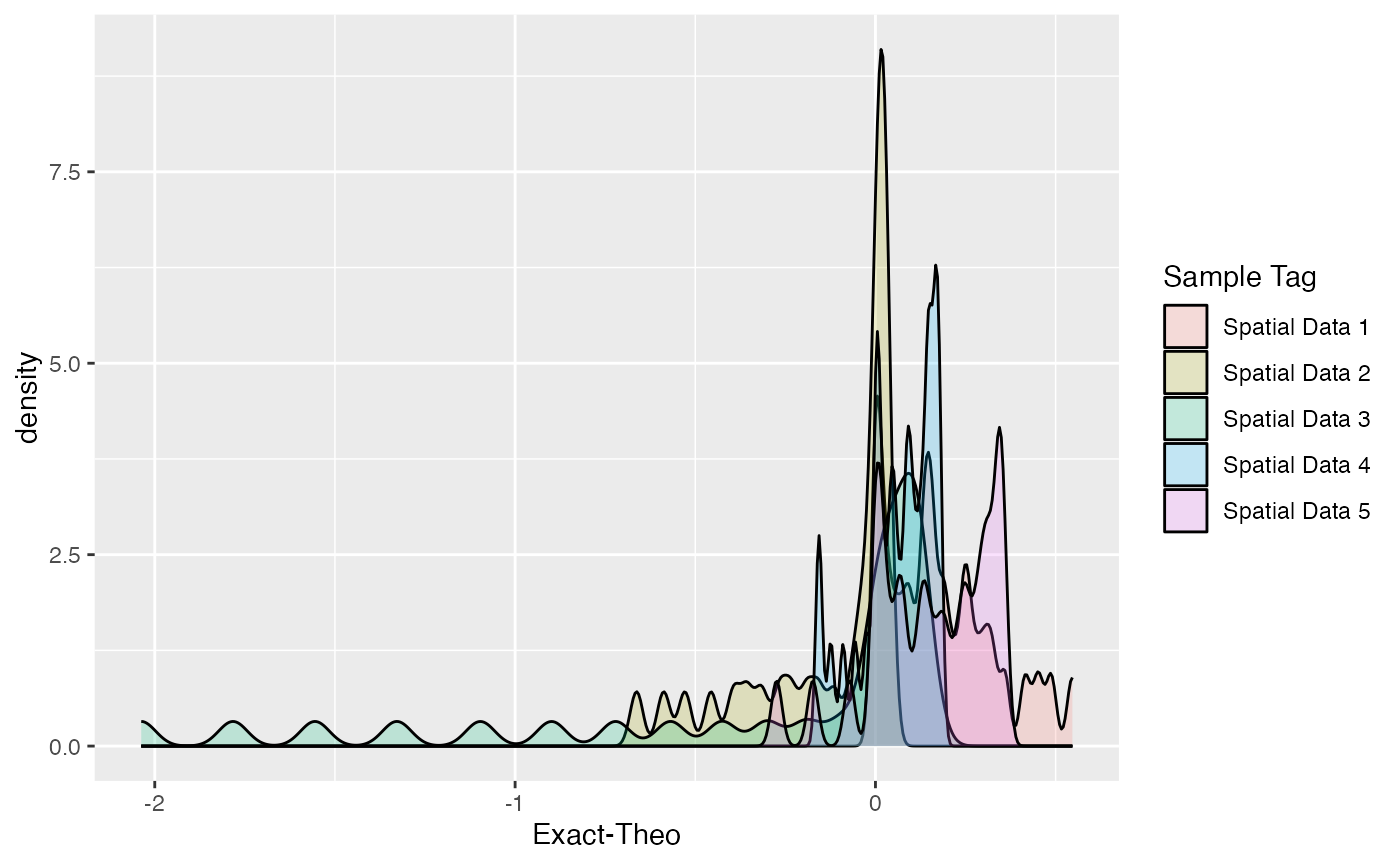
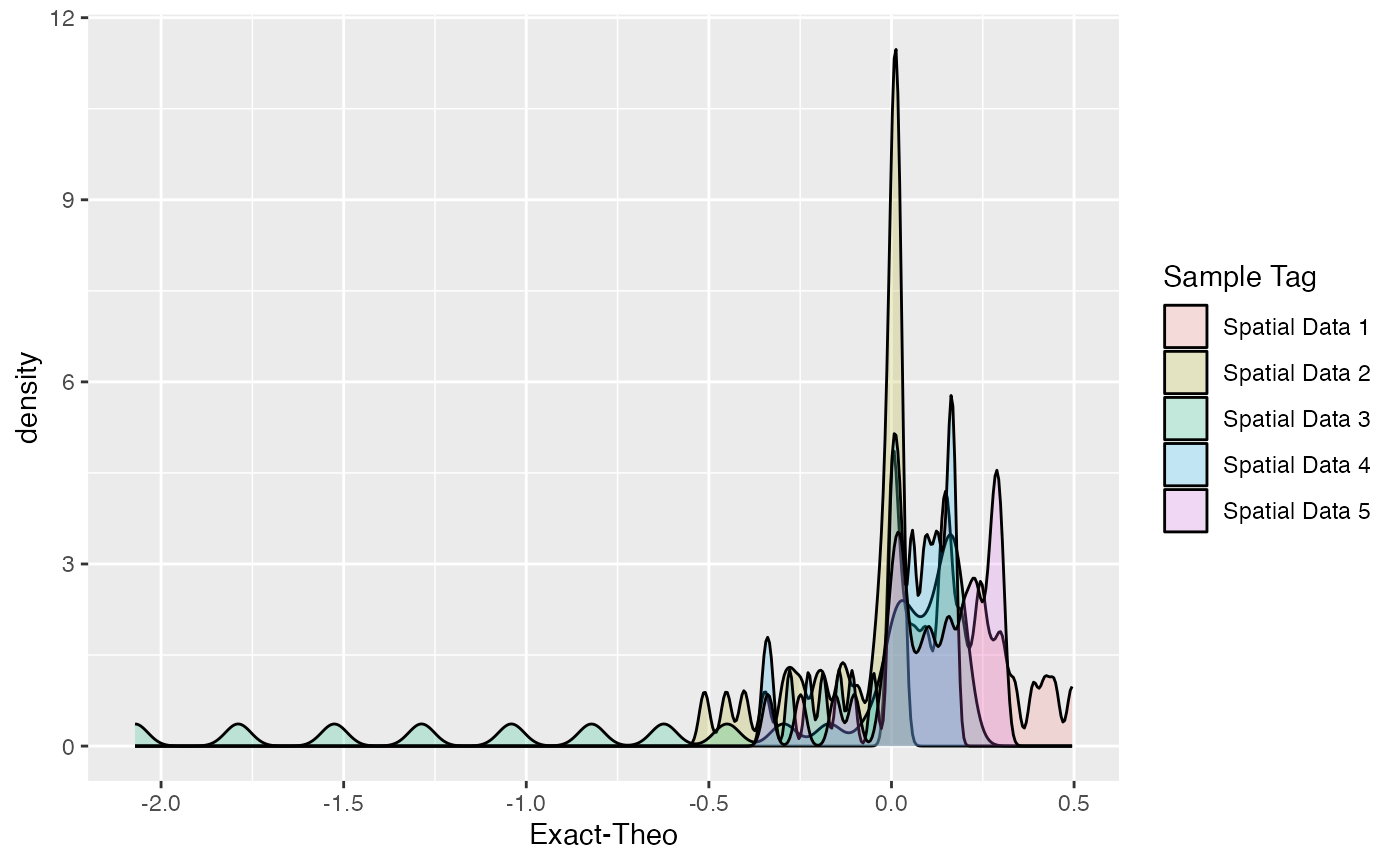
Package rename and rebuilt vignettes for github io

diff --git a/docs/articles/a01_Introduction.html b/docs/articles/a01_Introduction.html
@@ -5,14 +5,14 @@
 <meta charset="utf-8">
 <meta http-equiv="X-UA-Compatible" content="IE=edge">
 <meta name="viewport" content="width=device-width, initial-scale=1, shrink-to-fit=no">
-<meta name="description" content="sc.SpatialSIM">
-<title>Introduction • sc.SpatialSIM</title>
+<meta name="description" content="scSpatialSIM">
+<title>Introduction • scSpatialSIM</title>
 <script src="../deps/jquery-3.6.0/jquery-3.6.0.min.js"></script><meta name="viewport" content="width=device-width, initial-scale=1, shrink-to-fit=no">
 <link href="../deps/bootstrap-5.2.2/bootstrap.min.css" rel="stylesheet">
 <script src="../deps/bootstrap-5.2.2/bootstrap.bundle.min.js"></script><!-- Font Awesome icons --><link rel="stylesheet" href="https://cdnjs.cloudflare.com/ajax/libs/font-awesome/5.12.1/css/all.min.css" integrity="sha256-mmgLkCYLUQbXn0B1SRqzHar6dCnv9oZFPEC1g1cwlkk=" crossorigin="anonymous">
 <link rel="stylesheet" href="https://cdnjs.cloudflare.com/ajax/libs/font-awesome/5.12.1/css/v4-shims.min.css" integrity="sha256-wZjR52fzng1pJHwx4aV2AO3yyTOXrcDW7jBpJtTwVxw=" crossorigin="anonymous">
 <!-- bootstrap-toc --><script src="https://cdn.jsdelivr.net/gh/afeld/bootstrap-toc@v1.0.1/dist/bootstrap-toc.min.js" integrity="sha256-4veVQbu7//Lk5TSmc7YV48MxtMy98e26cf5MrgZYnwo=" crossorigin="anonymous"></script><!-- headroom.js --><script src="https://cdnjs.cloudflare.com/ajax/libs/headroom/0.11.0/headroom.min.js" integrity="sha256-AsUX4SJE1+yuDu5+mAVzJbuYNPHj/WroHuZ8Ir/CkE0=" crossorigin="anonymous"></script><script src="https://cdnjs.cloudflare.com/ajax/libs/headroom/0.11.0/jQuery.headroom.min.js" integrity="sha256-ZX/yNShbjqsohH1k95liqY9Gd8uOiE1S4vZc+9KQ1K4=" crossorigin="anonymous"></script><!-- clipboard.js --><script src="https://cdnjs.cloudflare.com/ajax/libs/clipboard.js/2.0.6/clipboard.min.js" integrity="sha256-inc5kl9MA1hkeYUt+EC3BhlIgyp/2jDIyBLS6k3UxPI=" crossorigin="anonymous"></script><!-- search --><script src="https://cdnjs.cloudflare.com/ajax/libs/fuse.js/6.4.6/fuse.js" integrity="sha512-zv6Ywkjyktsohkbp9bb45V6tEMoWhzFzXis+LrMehmJZZSys19Yxf1dopHx7WzIKxr5tK2dVcYmaCk2uqdjF4A==" crossorigin="anonymous"></script><script src="https://cdnjs.cloudflare.com/ajax/libs/autocomplete.js/0.38.0/autocomplete.jquery.min.js" integrity="sha512-GU9ayf+66Xx2TmpxqJpliWbT5PiGYxpaG8rfnBEk1LL8l1KGkRShhngwdXK1UgqhAzWpZHSiYPc09/NwDQIGyg==" crossorigin="anonymous"></script><script src="https://cdnjs.cloudflare.com/ajax/libs/mark.js/8.11.1/mark.min.js" integrity="sha512-5CYOlHXGh6QpOFA/TeTylKLWfB3ftPsde7AnmhuitiTX4K5SqCLBeKro6sPS8ilsz1Q4NRx3v8Ko2IBiszzdww==" crossorigin="anonymous"></script><!-- pkgdown --><script src="../pkgdown.js"></script><meta property="og:title" content="Introduction">
-<meta property="og:description" content="sc.SpatialSIM">
+<meta property="og:description" content="scSpatialSIM">
 <!-- mathjax --><script src="https://cdnjs.cloudflare.com/ajax/libs/mathjax/2.7.5/MathJax.js" integrity="sha256-nvJJv9wWKEm88qvoQl9ekL2J+k/RWIsaSScxxlsrv8k=" crossorigin="anonymous"></script><script src="https://cdnjs.cloudflare.com/ajax/libs/mathjax/2.7.5/config/TeX-AMS-MML_HTMLorMML.js" integrity="sha256-84DKXVJXs0/F8OTMzX4UR909+jtl4G7SPypPavF+GfA=" crossorigin="anonymous"></script><!--[if lt IE 9]>
 <script src="https://oss.maxcdn.com/html5shiv/3.7.3/html5shiv.min.js"></script>
 <script src="https://oss.maxcdn.com/respond/1.4.2/respond.min.js"></script>
@@ -24,7 +24,7 @@
 
     <nav class="navbar fixed-top navbar-light navbar-expand-lg bg-light"><div class="container">
     
-    <a class="navbar-brand me-2" href="../index.html">sc.SpatialSIM</a>
+    <a class="navbar-brand me-2" href="../index.html">scSpatialSIM</a>
 
     <small class="nav-text text-muted me-auto" data-bs-toggle="tooltip" data-bs-placement="bottom" title="">0.0.0.9000</small>
 
@@ -117,8 +117,8 @@ et. al</a>.</p>
 <h3 id="simulating">Simulating<a class="anchor" aria-label="anchor" href="#simulating"></a>
 </h3>
 <p>In order to compare metrics for describing point patterns, we have
-developed this simulation package: <a href="https://github.com/FridleyLab/mIFsim" class="external-link">sc.SpatialSIM</a>. The
-main basis of the package is using Gaussian kernels to assign different
+developed this simulation package: <a href="https://github.com/FridleyLab/mIFsim" class="external-link">scSpatialSIM</a>. The main
+basis of the package is using Gaussian kernels to assign different
 characteristics to the underlying spatial point pattern. A Gaussian
 kernel is described in 3 different ways in our package: kernel’s center,
 standard deviation in the x-direction and standard deviation in the
@@ -138,7 +138,7 @@ control for cell phenotypes (lower max probability lower abundance).</p>
 </div>
 </div>
 <div class="section level2">
-<h2 id="using-sc-spatialsim">Using <code>sc.SpatialSIM</code><a class="anchor" aria-label="anchor" href="#using-sc-spatialsim"></a>
+<h2 id="using-scspatialsim">Using <code>scSpatialSIM</code><a class="anchor" aria-label="anchor" href="#using-scspatialsim"></a>
 </h2>
 <p>The process of simulating cell type data was streamlined in a similar
 way to what one thinks of when thinking of real data. First, an S4
@@ -165,27 +165,30 @@ but low clustering of cytotoxic T cells is associated with better
 overall survival than missing cytotoxic T cells in high grade serous
 ovarian cancer tumors</a>. There are also instances that colocalization
 of 2 difference cell types might be of interest such as T cell and B
-cells in tumors. With <a href="https://github.com/FridleyLab/mIFsim" class="external-link">sc.SpatialSIM</a>, we provide methods
-to perform both of these spatial point patterns. Input parameters
-dictate the layout of a first cell type. In the case where more than one
-cell type is wanted, a correlation value is taken which uses the same
-kernel as the first cell type (<code>correlation = 1</code>) for strong
-colocalization or inverts the first cell types kernel
-(<code>correlation = -1</code>) for segregation.</p>
+cells in tumors. With <a href="https://github.com/FridleyLab/mIFsim" class="external-link">scSpatialSIM</a>, we provide methods to
+perform both of these spatial point patterns. Input parameters dictate
+the layout of a first cell type. In the case where more than one cell
+type is wanted, a shift value is taken which uses the same kernel as the
+first cell type (<code>shift = 0</code>) for strong colocalization or
+moved the first cell types’ kernel towards Dirichlet vertices
+(<code>shift = 1</code>) for segregation.</p>
 <div class="section level3">
 <h3 id="univariate-simulation">Univariate Simulation<a class="anchor" aria-label="anchor" href="#univariate-simulation"></a>
 </h3>
 <p>In order to get started simulating cell type samples, we need to
 import the package.</p>
 <div class="sourceCode" id="cb1"><pre class="downlit sourceCode r">
-<code class="sourceCode R"><span><span class="kw"><a href="https://rdrr.io/r/base/library.html" class="external-link">library</a></span><span class="op">(</span><span class="va"><a href="https://github.com/FridleyLab/mIFsim" class="external-link">sc.SpatialSIM</a></span><span class="op">)</span></span>
-<span><span class="co">#&gt; sc.SpatialSIM Version:</span></span>
+<code class="sourceCode R"><span><span class="kw"><a href="https://rdrr.io/r/base/library.html" class="external-link">library</a></span><span class="op">(</span><span class="va"><a href="https://github.com/FridleyLab/mIFsim" class="external-link">scSpatialSIM</a></span><span class="op">)</span></span>
+<span><span class="co">#&gt; scSpatialSIM Version:</span></span>
 <span><span class="co">#&gt; <span style="color: #BBBBBB;">0.0.0.9000</span></span></span>
-<span><span class="co">#&gt;            ___            _   _      _ ___ ___ __  __</span></span>
-<span><span class="co">#&gt;   ___ __  / __|_ __  __ _| |_(_)__ _| / __|_ _|  \/  |</span></span>
-<span><span class="co">#&gt;  (_-&lt;/ _|_\__ \ '_ \/ _` |  _| / _` | \__ \| || |\/| |</span></span>
-<span><span class="co">#&gt;  /__/\__(_)___/ .__/\__,_|\__|_\__,_|_|___/___|_|  |_|</span></span>
-<span><span class="co">#&gt;               |_|</span></span>
+<span><span class="co">#&gt;             _____             _   _       _  _____ _____ __  __</span></span>
+<span><span class="co">#&gt;            / ____|           | | (_)     | |/ ____|_   _|  \/  |</span></span>
+<span><span class="co">#&gt;   ___  ___| (___  _ __   __ _| |_ _  __ _| | (___   | | | \  / |</span></span>
+<span><span class="co">#&gt;  / __|/ __|\___ \| '_ \ / _` | __| |/ _` | |\___ \  | | | |\/| |</span></span>
+<span><span class="co">#&gt;  \__ \ (__ ____) | |_) | (_| | |_| | (_| | |____) |_| |_| |  | |</span></span>
+<span><span class="co">#&gt;  |___/\___|_____/| .__/ \__,_|\__|_|\__,_|_|_____/|_____|_|  |_|</span></span>
+<span><span class="co">#&gt;                  | |</span></span>
+<span><span class="co">#&gt;                  |_|</span></span>
 <span><span class="co">#&gt; </span></span>
 <span><span class="co">#&gt;  Fridley Lab <span style="color: #BBBBBB;">Enjoy</span></span></span>
 <span><span class="fu"><a href="https://rdrr.io/r/base/Random.html" class="external-link">set.seed</a></span><span class="op">(</span><span class="fl">333</span><span class="op">)</span> <span class="co">#reproducibility</span></span></code></pre></div>
@@ -343,7 +346,7 @@ will fall in which are stored in the parameters. This is helpful for
 going back and seeing what was done. However here, there are 2 different
 parameters that help set the abundance (<code>probs</code>) and, in the
 case of multiple cell types, how related those cell types are
-(<code>correlation</code>).</p>
+(<code>shift</code>).</p>
 <p>The <code>probs</code> parameter is used to scale the probabilities
 for the cell type where the first number is away from kernel peaks and
 the second is the maximum probability for a cell. For higher abundance,
@@ -358,17 +361,18 @@ even if the max probability is 0.1.</p>
 <p>For univariate clustering, smaller standard deviations and higher
 probability range will increase the amount of clustering. Large standard
 deviations and low probabilities will make the clustering metrics low.
-For univariate cell simulation, the <code>correlation</code> metric does
+For univariate cell simulation, the <code>shift</code> metric does
 nothing. The similarity of 2 or more cell types is controlled by the
-<code>correlation</code> value. A <code>correlation = 1</code> will use
-the same kernel used for probabilities of Cell Type 1 for the other cell
-types, and <code>correlation = -1</code> will invert Cell Type 1 kernel
-so that cells are segregated (with noise).</p>
+<code>shift</code> value. A <code>shift = 0</code> will use the same
+kernel used for probabilities of Cell Type 1 for the other cell types,
+and <code>shift = 1</code> will move Cell Type 1 kernel so that cells
+are segregated (with noise) to Dirichlet vertices when 3 or more kernel
+centers are used.</p>
 <div class="sourceCode" id="cb12"><pre class="downlit sourceCode r">
 <code class="sourceCode R"><span><span class="va">sim_object</span> <span class="op">=</span> <span class="fu"><a href="../reference/GenerateCellPositivity.html">GenerateCellPositivity</a></span><span class="op">(</span><span class="va">sim_object</span>, k <span class="op">=</span> <span class="fl">4</span>,</span>
 <span>                                    sdmin <span class="op">=</span> <span class="fl">3</span>, sdmax <span class="op">=</span> <span class="fl">5</span>,</span>
 <span>                                    density_heatmap <span class="op">=</span> <span class="cn">T</span>, step_size <span class="op">=</span> <span class="fl">0.1</span>, cores <span class="op">=</span> <span class="fl">1</span>, probs <span class="op">=</span> <span class="fu"><a href="https://rdrr.io/r/base/c.html" class="external-link">c</a></span><span class="op">(</span><span class="fl">0.0</span>, <span class="fl">0.1</span><span class="op">)</span>,</span>
-<span>                                    correlation <span class="op">=</span> <span class="op">-</span><span class="fl">1</span><span class="op">)</span></span>
+<span>                                    shift <span class="op">=</span> <span class="fl">1</span><span class="op">)</span></span>
 <span><span class="co">#&gt; Computing density heatmap for Cell 1</span></span>
 <span><span class="co">#&gt; Computing probability for Cell 1</span></span>
 <span><span class="fu"><a href="https://rdrr.io/r/base/summary.html" class="external-link">summary</a></span><span class="op">(</span><span class="va">sim_object</span><span class="op">)</span></span>
@@ -389,11 +393,11 @@ cells also with some noise.</p>
 <h3 id="bivariate-simulation">Bivariate Simulation<a class="anchor" aria-label="anchor" href="#bivariate-simulation"></a>
 </h3>
 <p>The process for 2 or more cell types is essentially the same as for a
-single cell type with the addition of the <code>correlation</code> value
-when simulating the cell types. Lets create another
-<code>SpatSimObj</code> to get to the phenotype simulating step with
+single cell type with the addition of the <code>shift</code> value when
+simulating the cell types. Lets create another <code>SpatSimObj</code>
+to get to the phenotype simulating step with
 <code><a href="../reference/GenerateCellPositivity.html">GenerateCellPositivity()</a></code>. A great feature of
-<a href="https://github.com/FridleyLab/mIFsim" class="external-link">sc.SpatialSIM</a> is that it works nicely with
+<a href="https://github.com/FridleyLab/mIFsim" class="external-link">scSpatialSIM</a> is that it works nicely with
 <a href="https://magrittr.tidyverse.org" class="external-link">magrittr</a> and the pipe function to immediately pass output
 from one function to the next.</p>
 <div class="sourceCode" id="cb14"><pre class="downlit sourceCode r">
@@ -408,18 +412,18 @@ from one function to the next.</p>
 <span><span class="co">#&gt; No `window` specified - defaulting to x (0, 10); y (0, 10)</span></span>
 <span><span class="co">#&gt; Computing density heatmap</span></span>
 <span><span class="co">#&gt; Computing tissue probability</span></span></code></pre></div>
-<p>As previously mentioned, we can specify a <code>correlation</code>
-values of 1 to use the same kernal for both cell types which will assign
-them in such a way that will be identifable as colocalized between Cell
-Type 1 and Cell Type 2. First, the high correlation:</p>
+<p>As previously mentioned, we can specify a <code>shift</code> values
+of 0 to use the same kernel for both cell types which will assign them
+in such a way that will be identifiable as colocalized between Cell Type
+1 and Cell Type 2. First, the low shift:</p>
 <div class="sourceCode" id="cb15"><pre class="downlit sourceCode r">
 <code class="sourceCode R"><span><span class="va">bivariate_sim_tmp</span>  <span class="op">=</span> <span class="fu"><a href="../reference/GenerateCellPositivity.html">GenerateCellPositivity</a></span><span class="op">(</span><span class="va">bivariate_sim</span>, k <span class="op">=</span> <span class="fl">4</span>,</span>
 <span>                                    sdmin <span class="op">=</span> <span class="fl">3</span>, sdmax <span class="op">=</span> <span class="fl">5</span>,</span>
 <span>                                    density_heatmap <span class="op">=</span> <span class="cn">T</span>, step_size <span class="op">=</span> <span class="fl">0.1</span>, cores <span class="op">=</span> <span class="fl">1</span>, probs <span class="op">=</span> <span class="fu"><a href="https://rdrr.io/r/base/c.html" class="external-link">c</a></span><span class="op">(</span><span class="fl">0.0</span>, <span class="fl">0.1</span><span class="op">)</span>,</span>
-<span>                                    correlation <span class="op">=</span> <span class="fl">1</span><span class="op">)</span></span>
+<span>                                    shift <span class="op">=</span> <span class="fl">0</span><span class="op">)</span></span>
 <span><span class="co">#&gt; Computing density heatmap for Cell 1</span></span>
 <span><span class="co">#&gt; Computing probability for Cell 1</span></span>
-<span><span class="co">#&gt; Adjusting density heatmap for Cell 2</span></span>
+<span><span class="co">#&gt; Copying density heatmap for Cell 2</span></span>
 <span><span class="co">#&gt; Computing probability for Cell 2</span></span>
 <span></span>
 <span><span class="fu"><a href="../reference/PlotSimulation.html">PlotSimulation</a></span><span class="op">(</span><span class="va">bivariate_sim_tmp</span>, which <span class="op">=</span> <span class="fl">1</span>, what <span class="op">=</span> <span class="st">"whole core"</span><span class="op">)</span></span></code></pre></div>
@@ -435,15 +439,15 @@ Cell Type 2?</p>
 <code class="sourceCode R"><span><span class="va">bivariate_sim_tmp</span>  <span class="op">=</span> <span class="fu"><a href="../reference/GenerateCellPositivity.html">GenerateCellPositivity</a></span><span class="op">(</span><span class="va">bivariate_sim</span>, k <span class="op">=</span> <span class="fl">4</span>,</span>
 <span>                                    sdmin <span class="op">=</span> <span class="fl">3</span>, sdmax <span class="op">=</span> <span class="fl">5</span>,</span>
 <span>                                    density_heatmap <span class="op">=</span> <span class="cn">T</span>, step_size <span class="op">=</span> <span class="fl">0.1</span>, cores <span class="op">=</span> <span class="fl">1</span>, probs <span class="op">=</span> <span class="fu"><a href="https://rdrr.io/r/base/c.html" class="external-link">c</a></span><span class="op">(</span><span class="fl">0.0</span>, <span class="fl">0.1</span><span class="op">)</span>,</span>
-<span>                                    correlation <span class="op">=</span> <span class="op">-</span><span class="fl">1</span><span class="op">)</span></span>
+<span>                                    shift <span class="op">=</span> <span class="fl">1</span><span class="op">)</span></span>
 <span><span class="co">#&gt; Computing density heatmap for Cell 1</span></span>
 <span><span class="co">#&gt; Computing probability for Cell 1</span></span>
-<span><span class="co">#&gt; Adjusting density heatmap for Cell 2</span></span>
+<span><span class="co">#&gt; Computing density heatmap for Cell 2</span></span>
 <span><span class="co">#&gt; Computing probability for Cell 2</span></span>
 <span></span>
 <span><span class="fu"><a href="../reference/PlotSimulation.html">PlotSimulation</a></span><span class="op">(</span><span class="va">bivariate_sim_tmp</span>, which <span class="op">=</span> <span class="fl">1</span>, what <span class="op">=</span> <span class="st">"whole core"</span><span class="op">)</span></span></code></pre></div>
 <p><img src="a01_Introduction_files/figure-html/unnamed-chunk-14-1.png" width="960"></p>
-<p>In Tissue 2 it’s easiser to see regions of only Cell Type 1 and
+<p>In Tissue 2 it’s easier to see regions of only Cell Type 1 and
 regions of only Cell Type 2.</p>
 </div>
 </div>
@@ -461,10 +465,10 @@ cell types.</p>
 <span><span class="fu"><a href="https://rdrr.io/r/utils/head.html" class="external-link">head</a></span><span class="op">(</span><span class="va">spatial_list</span><span class="op">[[</span><span class="fl">1</span><span class="op">]</span><span class="op">]</span><span class="op">)</span></span>
 <span><span class="co">#&gt;           x        y Tissue Assignment Cell 1 Assignment Cell 2 Assignment</span></span>
 <span><span class="co">#&gt; 1 5.7130558 1.274980          Tissue 1                 0                 0</span></span>
-<span><span class="co">#&gt; 2 0.2011937 2.748664          Tissue 1                 1                 0</span></span>
+<span><span class="co">#&gt; 2 0.2011937 2.748664          Tissue 2                 0                 0</span></span>
 <span><span class="co">#&gt; 3 7.2355739 6.800332          Tissue 2                 0                 0</span></span>
-<span><span class="co">#&gt; 4 6.0939363 6.601037          Tissue 2                 0                 1</span></span>
-<span><span class="co">#&gt; 5 3.0671935 2.480361          Tissue 2                 0                 0</span></span>
+<span><span class="co">#&gt; 4 6.0939363 6.601037          Tissue 2                 0                 0</span></span>
+<span><span class="co">#&gt; 5 3.0671935 2.480361          Tissue 1                 0                 0</span></span>
 <span><span class="co">#&gt; 6 0.6350984 1.242892          Tissue 1                 0                 0</span></span></code></pre></div>
 <p>Alternatively, there is the ability with
 <code><a href="../reference/CreateSpatialList.html">CreateSpatialList()</a></code> to export all of the spatial pattern
@@ -478,16 +482,16 @@ level counts for the different cell types.</p>
 <span><span class="fu"><a href="https://rdrr.io/r/utils/head.html" class="external-link">head</a></span><span class="op">(</span><span class="va">single_dataframe</span><span class="op">)</span></span>
 <span><span class="co">#&gt;       Image Name         x        y Tissue Assignment Cell 1 Assignment</span></span>
 <span><span class="co">#&gt; 1 Spatial Data 1 5.7130558 1.274980          Tissue 1                 0</span></span>
-<span><span class="co">#&gt; 2 Spatial Data 1 0.2011937 2.748664          Tissue 1                 1</span></span>
+<span><span class="co">#&gt; 2 Spatial Data 1 0.2011937 2.748664          Tissue 2                 0</span></span>
 <span><span class="co">#&gt; 3 Spatial Data 1 7.2355739 6.800332          Tissue 2                 0</span></span>
 <span><span class="co">#&gt; 4 Spatial Data 1 6.0939363 6.601037          Tissue 2                 0</span></span>
-<span><span class="co">#&gt; 5 Spatial Data 1 3.0671935 2.480361          Tissue 2                 0</span></span>
+<span><span class="co">#&gt; 5 Spatial Data 1 3.0671935 2.480361          Tissue 1                 0</span></span>
 <span><span class="co">#&gt; 6 Spatial Data 1 0.6350984 1.242892          Tissue 1                 0</span></span>
 <span><span class="co">#&gt;   Cell 2 Assignment</span></span>
 <span><span class="co">#&gt; 1                 0</span></span>
 <span><span class="co">#&gt; 2                 0</span></span>
 <span><span class="co">#&gt; 3                 0</span></span>
-<span><span class="co">#&gt; 4                 1</span></span>
+<span><span class="co">#&gt; 4                 0</span></span>
 <span><span class="co">#&gt; 5                 0</span></span>
 <span><span class="co">#&gt; 6                 0</span></span></code></pre></div>
 <div class="sourceCode" id="cb19"><pre class="downlit sourceCode r">
@@ -496,11 +500,11 @@ level counts for the different cell types.</p>
 <span><span class="co">#&gt; <span style="color: #949494;"># A tibble: 5 × 6</span></span></span>
 <span><span class="co">#&gt;   `Sample Tag`   `Total Cells` `Cell 1 Assignment` `Cell 2 Assignment`</span></span>
 <span><span class="co">#&gt;   <span style="color: #949494; font-style: italic;">&lt;chr&gt;</span>                  <span style="color: #949494; font-style: italic;">&lt;int&gt;</span>               <span style="color: #949494; font-style: italic;">&lt;dbl&gt;</span>               <span style="color: #949494; font-style: italic;">&lt;dbl&gt;</span></span></span>
-<span><span class="co">#&gt; <span style="color: #BCBCBC;">1</span> Spatial Data 1          <span style="text-decoration: underline;">2</span>495                 131                  99</span></span>
-<span><span class="co">#&gt; <span style="color: #BCBCBC;">2</span> Spatial Data 2          <span style="text-decoration: underline;">2</span>450                 147                  96</span></span>
-<span><span class="co">#&gt; <span style="color: #BCBCBC;">3</span> Spatial Data 3          <span style="text-decoration: underline;">2</span>500                 132                 100</span></span>
-<span><span class="co">#&gt; <span style="color: #BCBCBC;">4</span> Spatial Data 4          <span style="text-decoration: underline;">2</span>514                 141                  90</span></span>
-<span><span class="co">#&gt; <span style="color: #BCBCBC;">5</span> Spatial Data 5          <span style="text-decoration: underline;">2</span>486                 127                 118</span></span>
+<span><span class="co">#&gt; <span style="color: #BCBCBC;">1</span> Spatial Data 1          <span style="text-decoration: underline;">2</span>495                 129                 130</span></span>
+<span><span class="co">#&gt; <span style="color: #BCBCBC;">2</span> Spatial Data 2          <span style="text-decoration: underline;">2</span>450                 147                 136</span></span>
+<span><span class="co">#&gt; <span style="color: #BCBCBC;">3</span> Spatial Data 3          <span style="text-decoration: underline;">2</span>500                 143                 101</span></span>
+<span><span class="co">#&gt; <span style="color: #BCBCBC;">4</span> Spatial Data 4          <span style="text-decoration: underline;">2</span>514                 148                 108</span></span>
+<span><span class="co">#&gt; <span style="color: #BCBCBC;">5</span> Spatial Data 5          <span style="text-decoration: underline;">2</span>486                 130                  91</span></span>
 <span><span class="co">#&gt; <span style="color: #949494;"># ℹ 2 more variables: `% Cell 1 Assignment` &lt;dbl&gt;, `% Cell 2 Assignment` &lt;dbl&gt;</span></span></span></code></pre></div>
 <p>The spatial list and summary table can now be used with packages like
 <a href="https://github.com/FridleyLab/spatialTIME" class="external-link">spatialTIME</a> to compute spatial statistics on all of the

diff --git a/docs/articles/a02_Using_with spatialTIME.html b/docs/articles/a02_Using_with spatialTIME.html
@@ -5,14 +5,14 @@
 <meta charset="utf-8">
 <meta http-equiv="X-UA-Compatible" content="IE=edge">
 <meta name="viewport" content="width=device-width, initial-scale=1, shrink-to-fit=no">
-<meta name="description" content="sc.SpatialSIM">
-<title>Using with spatialTIME • sc.SpatialSIM</title>
+<meta name="description" content="scSpatialSIM">
+<title>Using with spatialTIME • scSpatialSIM</title>
 <script src="../deps/jquery-3.6.0/jquery-3.6.0.min.js"></script><meta name="viewport" content="width=device-width, initial-scale=1, shrink-to-fit=no">
 <link href="../deps/bootstrap-5.2.2/bootstrap.min.css" rel="stylesheet">
 <script src="../deps/bootstrap-5.2.2/bootstrap.bundle.min.js"></script><!-- Font Awesome icons --><link rel="stylesheet" href="https://cdnjs.cloudflare.com/ajax/libs/font-awesome/5.12.1/css/all.min.css" integrity="sha256-mmgLkCYLUQbXn0B1SRqzHar6dCnv9oZFPEC1g1cwlkk=" crossorigin="anonymous">
 <link rel="stylesheet" href="https://cdnjs.cloudflare.com/ajax/libs/font-awesome/5.12.1/css/v4-shims.min.css" integrity="sha256-wZjR52fzng1pJHwx4aV2AO3yyTOXrcDW7jBpJtTwVxw=" crossorigin="anonymous">
 <!-- bootstrap-toc --><script src="https://cdn.jsdelivr.net/gh/afeld/bootstrap-toc@v1.0.1/dist/bootstrap-toc.min.js" integrity="sha256-4veVQbu7//Lk5TSmc7YV48MxtMy98e26cf5MrgZYnwo=" crossorigin="anonymous"></script><!-- headroom.js --><script src="https://cdnjs.cloudflare.com/ajax/libs/headroom/0.11.0/headroom.min.js" integrity="sha256-AsUX4SJE1+yuDu5+mAVzJbuYNPHj/WroHuZ8Ir/CkE0=" crossorigin="anonymous"></script><script src="https://cdnjs.cloudflare.com/ajax/libs/headroom/0.11.0/jQuery.headroom.min.js" integrity="sha256-ZX/yNShbjqsohH1k95liqY9Gd8uOiE1S4vZc+9KQ1K4=" crossorigin="anonymous"></script><!-- clipboard.js --><script src="https://cdnjs.cloudflare.com/ajax/libs/clipboard.js/2.0.6/clipboard.min.js" integrity="sha256-inc5kl9MA1hkeYUt+EC3BhlIgyp/2jDIyBLS6k3UxPI=" crossorigin="anonymous"></script><!-- search --><script src="https://cdnjs.cloudflare.com/ajax/libs/fuse.js/6.4.6/fuse.js" integrity="sha512-zv6Ywkjyktsohkbp9bb45V6tEMoWhzFzXis+LrMehmJZZSys19Yxf1dopHx7WzIKxr5tK2dVcYmaCk2uqdjF4A==" crossorigin="anonymous"></script><script src="https://cdnjs.cloudflare.com/ajax/libs/autocomplete.js/0.38.0/autocomplete.jquery.min.js" integrity="sha512-GU9ayf+66Xx2TmpxqJpliWbT5PiGYxpaG8rfnBEk1LL8l1KGkRShhngwdXK1UgqhAzWpZHSiYPc09/NwDQIGyg==" crossorigin="anonymous"></script><script src="https://cdnjs.cloudflare.com/ajax/libs/mark.js/8.11.1/mark.min.js" integrity="sha512-5CYOlHXGh6QpOFA/TeTylKLWfB3ftPsde7AnmhuitiTX4K5SqCLBeKro6sPS8ilsz1Q4NRx3v8Ko2IBiszzdww==" crossorigin="anonymous"></script><!-- pkgdown --><script src="../pkgdown.js"></script><meta property="og:title" content="Using with spatialTIME">
-<meta property="og:description" content="sc.SpatialSIM">
+<meta property="og:description" content="scSpatialSIM">
 <!-- mathjax --><script src="https://cdnjs.cloudflare.com/ajax/libs/mathjax/2.7.5/MathJax.js" integrity="sha256-nvJJv9wWKEm88qvoQl9ekL2J+k/RWIsaSScxxlsrv8k=" crossorigin="anonymous"></script><script src="https://cdnjs.cloudflare.com/ajax/libs/mathjax/2.7.5/config/TeX-AMS-MML_HTMLorMML.js" integrity="sha256-84DKXVJXs0/F8OTMzX4UR909+jtl4G7SPypPavF+GfA=" crossorigin="anonymous"></script><!--[if lt IE 9]>
 <script src="https://oss.maxcdn.com/html5shiv/3.7.3/html5shiv.min.js"></script>
 <script src="https://oss.maxcdn.com/respond/1.4.2/respond.min.js"></script>
@@ -24,7 +24,7 @@
 
     <nav class="navbar fixed-top navbar-light navbar-expand-lg bg-light"><div class="container">
     
-    <a class="navbar-brand me-2" href="../index.html">sc.SpatialSIM</a>
+    <a class="navbar-brand me-2" href="../index.html">scSpatialSIM</a>
 
     <small class="nav-text text-muted me-auto" data-bs-toggle="tooltip" data-bs-placement="bottom" title="">0.0.0.9000</small>
 
@@ -83,9 +83,9 @@
 <h2 id="background">Background<a class="anchor" aria-label="anchor" href="#background"></a>
 </h2>
 <p>More than likely, you are going to want to use another package to
-analyze the simulated data produced by <a href="https://github.com/FridleyLab/mIFsim" class="external-link">sc.SpatialSIM</a>.
-Here, we will show how the output from <a href="https://github.com/FridleyLab/mIFsim" class="external-link">sc.SpatialSIM</a>
-works seemlessly with the spatial analysis package,
+analyze the simulated data produced by <a href="https://github.com/FridleyLab/mIFsim" class="external-link">scSpatialSIM</a>.
+Here, we will show how the output from <a href="https://github.com/FridleyLab/mIFsim" class="external-link">scSpatialSIM</a> works
+seemlessly with the spatial analysis package,
 <a href="https://github.com/FridleyLab/spatialTIME" class="external-link">spatialTIME</a></p>
 <div class="section level3">
 <h3 id="simulating-data">Simulating Data<a class="anchor" aria-label="anchor" href="#simulating-data"></a>
@@ -98,14 +98,17 @@ use this data with <a href="https://github.com/FridleyLab/spatialTIME" class="ex
 statistics like Ripley’s <em>K</em>. See the spatialTIME package for
 more information about everything the package can do.</p>
 <div class="sourceCode" id="cb1"><pre class="downlit sourceCode r">
-<code class="sourceCode R"><span><span class="kw"><a href="https://rdrr.io/r/base/library.html" class="external-link">library</a></span><span class="op">(</span><span class="va"><a href="https://github.com/FridleyLab/mIFsim" class="external-link">sc.SpatialSIM</a></span><span class="op">)</span></span>
-<span><span class="co">#&gt; sc.SpatialSIM Version:</span></span>
+<code class="sourceCode R"><span><span class="kw"><a href="https://rdrr.io/r/base/library.html" class="external-link">library</a></span><span class="op">(</span><span class="va"><a href="https://github.com/FridleyLab/mIFsim" class="external-link">scSpatialSIM</a></span><span class="op">)</span></span>
+<span><span class="co">#&gt; scSpatialSIM Version:</span></span>
 <span><span class="co">#&gt; <span style="color: #BBBBBB;">0.0.0.9000</span></span></span>
-<span><span class="co">#&gt;            ___            _   _      _ ___ ___ __  __</span></span>
-<span><span class="co">#&gt;   ___ __  / __|_ __  __ _| |_(_)__ _| / __|_ _|  \/  |</span></span>
-<span><span class="co">#&gt;  (_-&lt;/ _|_\__ \ '_ \/ _` |  _| / _` | \__ \| || |\/| |</span></span>
-<span><span class="co">#&gt;  /__/\__(_)___/ .__/\__,_|\__|_\__,_|_|___/___|_|  |_|</span></span>
-<span><span class="co">#&gt;               |_|</span></span>
+<span><span class="co">#&gt;             _____             _   _       _  _____ _____ __  __</span></span>
+<span><span class="co">#&gt;            / ____|           | | (_)     | |/ ____|_   _|  \/  |</span></span>
+<span><span class="co">#&gt;   ___  ___| (___  _ __   __ _| |_ _  __ _| | (___   | | | \  / |</span></span>
+<span><span class="co">#&gt;  / __|/ __|\___ \| '_ \ / _` | __| |/ _` | |\___ \  | | | |\/| |</span></span>
+<span><span class="co">#&gt;  \__ \ (__ ____) | |_) | (_| | |_| | (_| | |____) |_| |_| |  | |</span></span>
+<span><span class="co">#&gt;  |___/\___|_____/| .__/ \__,_|\__|_|\__,_|_|_____/|_____|_|  |_|</span></span>
+<span><span class="co">#&gt;                  | |</span></span>
+<span><span class="co">#&gt;                  |_|</span></span>
 <span><span class="co">#&gt; </span></span>
 <span><span class="co">#&gt;  Fridley Lab <span style="color: #BBBBBB;">Enjoy</span></span></span></code></pre></div>
 <p>In this vignette, we will stick with a single cell type and look at
@@ -141,11 +144,11 @@ be split into a spatial list as well as a summary using
 <span><span class="co">#&gt; <span style="color: #949494;"># A tibble: 5 × 4</span></span></span>
 <span><span class="co">#&gt;   `Sample Tag`   `Total Cells` `Cell 1 Assignment` `% Cell 1 Assignment`</span></span>
 <span><span class="co">#&gt;   <span style="color: #949494; font-style: italic;">&lt;chr&gt;</span>                  <span style="color: #949494; font-style: italic;">&lt;int&gt;</span>               <span style="color: #949494; font-style: italic;">&lt;dbl&gt;</span>                 <span style="color: #949494; font-style: italic;">&lt;dbl&gt;</span></span></span>
-<span><span class="co">#&gt; <span style="color: #BCBCBC;">1</span> Spatial Data 1          <span style="text-decoration: underline;">2</span>495                 386                  15.5</span></span>
-<span><span class="co">#&gt; <span style="color: #BCBCBC;">2</span> Spatial Data 2          <span style="text-decoration: underline;">2</span>450                 622                  25.4</span></span>
-<span><span class="co">#&gt; <span style="color: #BCBCBC;">3</span> Spatial Data 3          <span style="text-decoration: underline;">2</span>500                 589                  23.6</span></span>
-<span><span class="co">#&gt; <span style="color: #BCBCBC;">4</span> Spatial Data 4          <span style="text-decoration: underline;">2</span>514                 652                  25.9</span></span>
-<span><span class="co">#&gt; <span style="color: #BCBCBC;">5</span> Spatial Data 5          <span style="text-decoration: underline;">2</span>486                 590                  23.7</span></span></code></pre></div>
+<span><span class="co">#&gt; <span style="color: #BCBCBC;">1</span> Spatial Data 1          <span style="text-decoration: underline;">2</span>495                 369                  14.8</span></span>
+<span><span class="co">#&gt; <span style="color: #BCBCBC;">2</span> Spatial Data 2          <span style="text-decoration: underline;">2</span>450                 682                  27.8</span></span>
+<span><span class="co">#&gt; <span style="color: #BCBCBC;">3</span> Spatial Data 3          <span style="text-decoration: underline;">2</span>500                 606                  24.2</span></span>
+<span><span class="co">#&gt; <span style="color: #BCBCBC;">4</span> Spatial Data 4          <span style="text-decoration: underline;">2</span>514                 622                  24.7</span></span>
+<span><span class="co">#&gt; <span style="color: #BCBCBC;">5</span> Spatial Data 5          <span style="text-decoration: underline;">2</span>486                 585                  23.5</span></span></code></pre></div>
 </div>
 <div class="section level3">
 <h3 id="using-with-spatialtime">Using with <code>spatialTIME</code><a class="anchor" aria-label="anchor" href="#using-with-spatialtime"></a>
@@ -265,11 +268,11 @@ cores.</p>
 <span><span class="co">#&gt; <span style="color: #949494;"># A tibble: 5 × 2</span></span></span>
 <span><span class="co">#&gt;   `Sample Tag`   `Total Fraction`</span></span>
 <span><span class="co">#&gt;   <span style="color: #949494; font-style: italic;">&lt;chr&gt;</span>                     <span style="color: #949494; font-style: italic;">&lt;dbl&gt;</span></span></span>
-<span><span class="co">#&gt; <span style="color: #BCBCBC;">1</span> Spatial Data 1            0.968</span></span>
-<span><span class="co">#&gt; <span style="color: #BCBCBC;">2</span> Spatial Data 2            0.452</span></span>
-<span><span class="co">#&gt; <span style="color: #BCBCBC;">3</span> Spatial Data 3            0.548</span></span>
-<span><span class="co">#&gt; <span style="color: #BCBCBC;">4</span> Spatial Data 4            0.774</span></span>
-<span><span class="co">#&gt; <span style="color: #BCBCBC;">5</span> Spatial Data 5            0.839</span></span></code></pre></div>
+<span><span class="co">#&gt; <span style="color: #BCBCBC;">1</span> Spatial Data 1            0.935</span></span>
+<span><span class="co">#&gt; <span style="color: #BCBCBC;">2</span> Spatial Data 2            0.387</span></span>
+<span><span class="co">#&gt; <span style="color: #BCBCBC;">3</span> Spatial Data 3            0.613</span></span>
+<span><span class="co">#&gt; <span style="color: #BCBCBC;">4</span> Spatial Data 4            0.677</span></span>
+<span><span class="co">#&gt; <span style="color: #BCBCBC;">5</span> Spatial Data 5            0.806</span></span></code></pre></div>
 </div>
 </div>
   </main><aside class="col-md-3"><nav id="toc"><h2>On this page</h2>

diff --git a/docs/articles/index.html b/docs/articles/index.html
@@ -1,5 +1,5 @@
 <!DOCTYPE html>
-<!-- Generated by pkgdown: do not edit by hand --><html lang="en"><head><meta http-equiv="Content-Type" content="text/html; charset=UTF-8"><meta charset="utf-8"><meta http-equiv="X-UA-Compatible" content="IE=edge"><meta name="viewport" content="width=device-width, initial-scale=1, shrink-to-fit=no"><title>Articles • sc.SpatialSIM</title><script src="../deps/jquery-3.6.0/jquery-3.6.0.min.js"></script><meta name="viewport" content="width=device-width, initial-scale=1, shrink-to-fit=no"><link href="../deps/bootstrap-5.2.2/bootstrap.min.css" rel="stylesheet"><script src="../deps/bootstrap-5.2.2/bootstrap.bundle.min.js"></script><!-- Font Awesome icons --><link rel="stylesheet" href="https://cdnjs.cloudflare.com/ajax/libs/font-awesome/5.12.1/css/all.min.css" integrity="sha256-mmgLkCYLUQbXn0B1SRqzHar6dCnv9oZFPEC1g1cwlkk=" crossorigin="anonymous"><link rel="stylesheet" href="https://cdnjs.cloudflare.com/ajax/libs/font-awesome/5.12.1/css/v4-shims.min.css" integrity="sha256-wZjR52fzng1pJHwx4aV2AO3yyTOXrcDW7jBpJtTwVxw=" crossorigin="anonymous"><!-- bootstrap-toc --><script src="https://cdn.jsdelivr.net/gh/afeld/bootstrap-toc@v1.0.1/dist/bootstrap-toc.min.js" integrity="sha256-4veVQbu7//Lk5TSmc7YV48MxtMy98e26cf5MrgZYnwo=" crossorigin="anonymous"></script><!-- headroom.js --><script src="https://cdnjs.cloudflare.com/ajax/libs/headroom/0.11.0/headroom.min.js" integrity="sha256-AsUX4SJE1+yuDu5+mAVzJbuYNPHj/WroHuZ8Ir/CkE0=" crossorigin="anonymous"></script><script src="https://cdnjs.cloudflare.com/ajax/libs/headroom/0.11.0/jQuery.headroom.min.js" integrity="sha256-ZX/yNShbjqsohH1k95liqY9Gd8uOiE1S4vZc+9KQ1K4=" crossorigin="anonymous"></script><!-- clipboard.js --><script src="https://cdnjs.cloudflare.com/ajax/libs/clipboard.js/2.0.6/clipboard.min.js" integrity="sha256-inc5kl9MA1hkeYUt+EC3BhlIgyp/2jDIyBLS6k3UxPI=" crossorigin="anonymous"></script><!-- search --><script src="https://cdnjs.cloudflare.com/ajax/libs/fuse.js/6.4.6/fuse.js" integrity="sha512-zv6Ywkjyktsohkbp9bb45V6tEMoWhzFzXis+LrMehmJZZSys19Yxf1dopHx7WzIKxr5tK2dVcYmaCk2uqdjF4A==" crossorigin="anonymous"></script><script src="https://cdnjs.cloudflare.com/ajax/libs/autocomplete.js/0.38.0/autocomplete.jquery.min.js" integrity="sha512-GU9ayf+66Xx2TmpxqJpliWbT5PiGYxpaG8rfnBEk1LL8l1KGkRShhngwdXK1UgqhAzWpZHSiYPc09/NwDQIGyg==" crossorigin="anonymous"></script><script src="https://cdnjs.cloudflare.com/ajax/libs/mark.js/8.11.1/mark.min.js" integrity="sha512-5CYOlHXGh6QpOFA/TeTylKLWfB3ftPsde7AnmhuitiTX4K5SqCLBeKro6sPS8ilsz1Q4NRx3v8Ko2IBiszzdww==" crossorigin="anonymous"></script><!-- pkgdown --><script src="../pkgdown.js"></script><meta property="og:title" content="Articles"><!-- mathjax --><script src="https://cdnjs.cloudflare.com/ajax/libs/mathjax/2.7.5/MathJax.js" integrity="sha256-nvJJv9wWKEm88qvoQl9ekL2J+k/RWIsaSScxxlsrv8k=" crossorigin="anonymous"></script><script src="https://cdnjs.cloudflare.com/ajax/libs/mathjax/2.7.5/config/TeX-AMS-MML_HTMLorMML.js" integrity="sha256-84DKXVJXs0/F8OTMzX4UR909+jtl4G7SPypPavF+GfA=" crossorigin="anonymous"></script><!--[if lt IE 9]>
+<!-- Generated by pkgdown: do not edit by hand --><html lang="en"><head><meta http-equiv="Content-Type" content="text/html; charset=UTF-8"><meta charset="utf-8"><meta http-equiv="X-UA-Compatible" content="IE=edge"><meta name="viewport" content="width=device-width, initial-scale=1, shrink-to-fit=no"><title>Articles • scSpatialSIM</title><script src="../deps/jquery-3.6.0/jquery-3.6.0.min.js"></script><meta name="viewport" content="width=device-width, initial-scale=1, shrink-to-fit=no"><link href="../deps/bootstrap-5.2.2/bootstrap.min.css" rel="stylesheet"><script src="../deps/bootstrap-5.2.2/bootstrap.bundle.min.js"></script><!-- Font Awesome icons --><link rel="stylesheet" href="https://cdnjs.cloudflare.com/ajax/libs/font-awesome/5.12.1/css/all.min.css" integrity="sha256-mmgLkCYLUQbXn0B1SRqzHar6dCnv9oZFPEC1g1cwlkk=" crossorigin="anonymous"><link rel="stylesheet" href="https://cdnjs.cloudflare.com/ajax/libs/font-awesome/5.12.1/css/v4-shims.min.css" integrity="sha256-wZjR52fzng1pJHwx4aV2AO3yyTOXrcDW7jBpJtTwVxw=" crossorigin="anonymous"><!-- bootstrap-toc --><script src="https://cdn.jsdelivr.net/gh/afeld/bootstrap-toc@v1.0.1/dist/bootstrap-toc.min.js" integrity="sha256-4veVQbu7//Lk5TSmc7YV48MxtMy98e26cf5MrgZYnwo=" crossorigin="anonymous"></script><!-- headroom.js --><script src="https://cdnjs.cloudflare.com/ajax/libs/headroom/0.11.0/headroom.min.js" integrity="sha256-AsUX4SJE1+yuDu5+mAVzJbuYNPHj/WroHuZ8Ir/CkE0=" crossorigin="anonymous"></script><script src="https://cdnjs.cloudflare.com/ajax/libs/headroom/0.11.0/jQuery.headroom.min.js" integrity="sha256-ZX/yNShbjqsohH1k95liqY9Gd8uOiE1S4vZc+9KQ1K4=" crossorigin="anonymous"></script><!-- clipboard.js --><script src="https://cdnjs.cloudflare.com/ajax/libs/clipboard.js/2.0.6/clipboard.min.js" integrity="sha256-inc5kl9MA1hkeYUt+EC3BhlIgyp/2jDIyBLS6k3UxPI=" crossorigin="anonymous"></script><!-- search --><script src="https://cdnjs.cloudflare.com/ajax/libs/fuse.js/6.4.6/fuse.js" integrity="sha512-zv6Ywkjyktsohkbp9bb45V6tEMoWhzFzXis+LrMehmJZZSys19Yxf1dopHx7WzIKxr5tK2dVcYmaCk2uqdjF4A==" crossorigin="anonymous"></script><script src="https://cdnjs.cloudflare.com/ajax/libs/autocomplete.js/0.38.0/autocomplete.jquery.min.js" integrity="sha512-GU9ayf+66Xx2TmpxqJpliWbT5PiGYxpaG8rfnBEk1LL8l1KGkRShhngwdXK1UgqhAzWpZHSiYPc09/NwDQIGyg==" crossorigin="anonymous"></script><script src="https://cdnjs.cloudflare.com/ajax/libs/mark.js/8.11.1/mark.min.js" integrity="sha512-5CYOlHXGh6QpOFA/TeTylKLWfB3ftPsde7AnmhuitiTX4K5SqCLBeKro6sPS8ilsz1Q4NRx3v8Ko2IBiszzdww==" crossorigin="anonymous"></script><!-- pkgdown --><script src="../pkgdown.js"></script><meta property="og:title" content="Articles"><!-- mathjax --><script src="https://cdnjs.cloudflare.com/ajax/libs/mathjax/2.7.5/MathJax.js" integrity="sha256-nvJJv9wWKEm88qvoQl9ekL2J+k/RWIsaSScxxlsrv8k=" crossorigin="anonymous"></script><script src="https://cdnjs.cloudflare.com/ajax/libs/mathjax/2.7.5/config/TeX-AMS-MML_HTMLorMML.js" integrity="sha256-84DKXVJXs0/F8OTMzX4UR909+jtl4G7SPypPavF+GfA=" crossorigin="anonymous"></script><!--[if lt IE 9]>
 <script src="https://oss.maxcdn.com/html5shiv/3.7.3/html5shiv.min.js"></script>
 <script src="https://oss.maxcdn.com/respond/1.4.2/respond.min.js"></script>
 <![endif]--></head><body>
@@ -8,7 +8,7 @@
 
     <nav class="navbar fixed-top navbar-light navbar-expand-lg bg-light"><div class="container">
     
-    <a class="navbar-brand me-2" href="../index.html">sc.SpatialSIM</a>
+    <a class="navbar-brand me-2" href="../index.html">scSpatialSIM</a>
 
     <small class="nav-text text-muted me-auto" data-bs-toggle="tooltip" data-bs-placement="bottom" title="">0.0.0.9000</small>
 
